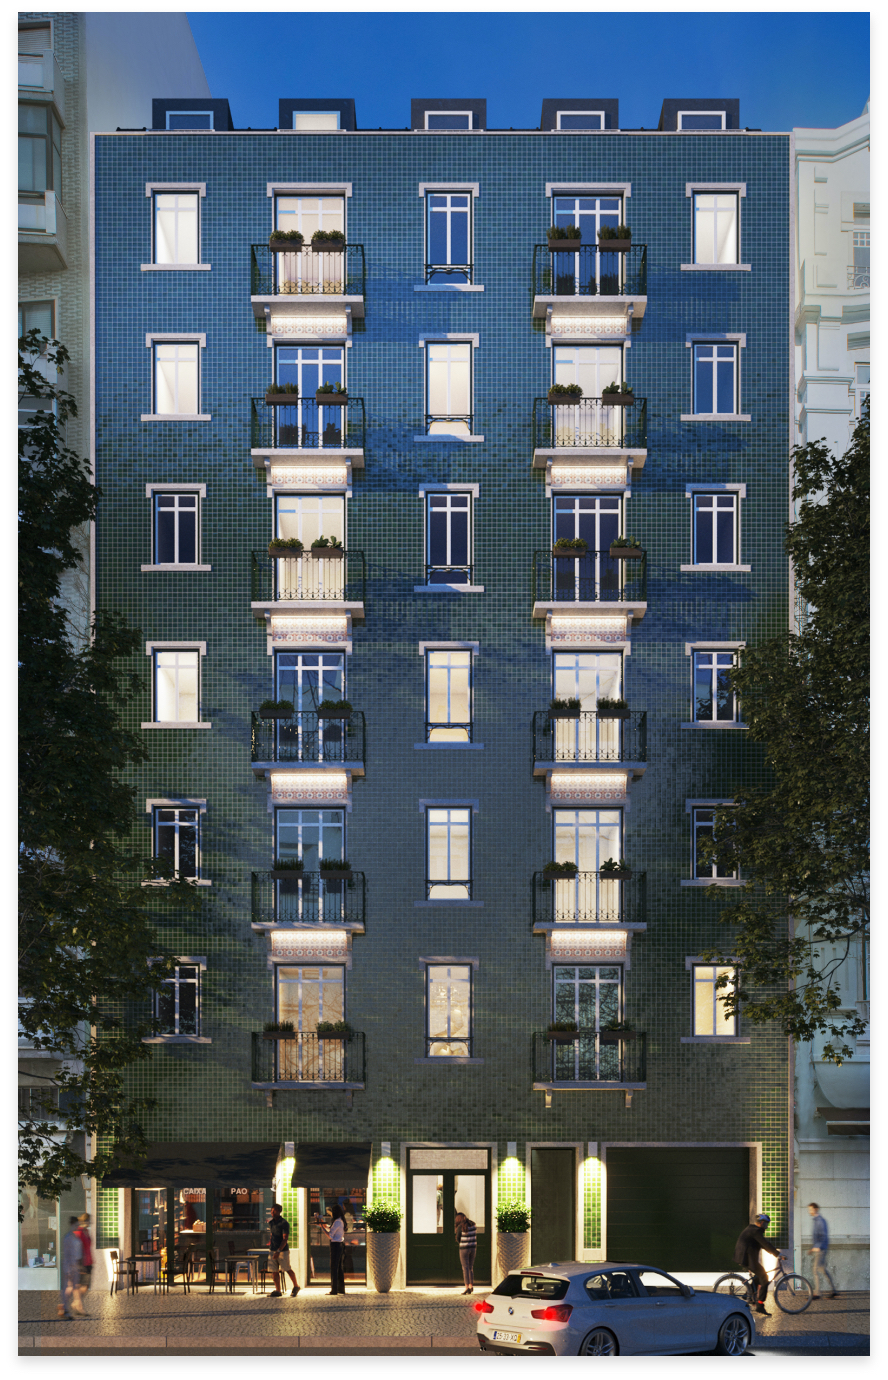
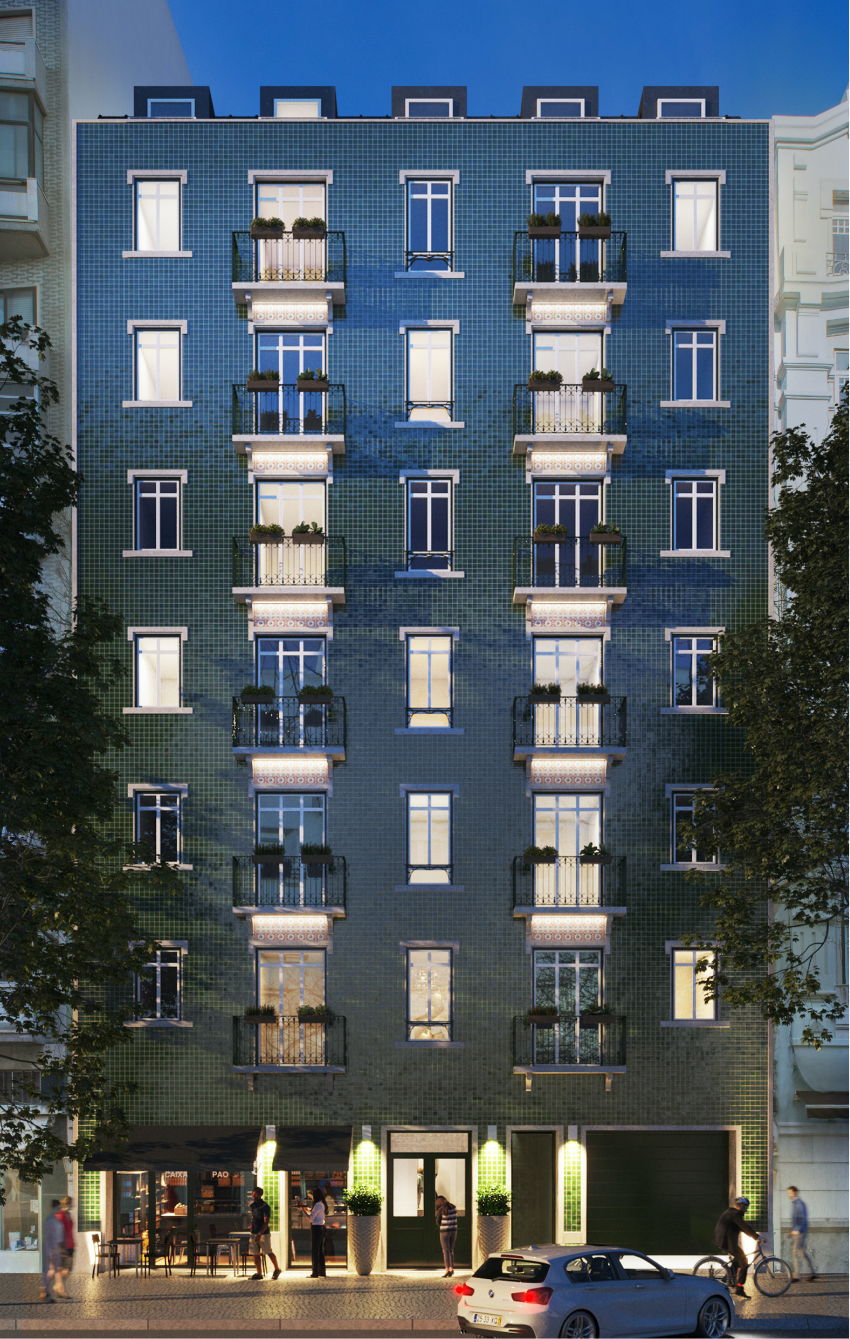
UPD: units background image;

diff --git a/src/views/Units.js b/src/views/Units.js
@@ -7,6 +7,7 @@ import cx from 'classnames'
 import { baseUrl } from '../api'
 import db from '../db'
 import StatusTag from '../components/StatusTag'
+import fachada from '../assets/images/fachada.jpg'
 
 const getHeight = index => {
   switch(index) {
@@ -75,7 +76,7 @@ const Units = () => {
           : <p className="text-2xl text-white uppercase font-display font-medium">Escolha o seu <span className="text-green font-light">apartamento</span></p>
         }
       </div>
-      <Building className="building px-6 grid my-6 mx-auto" ref={ref}>
+      <Building className="building px-6 grid py-6" ref={ref} style={{backgroundImage: `url(${fachada})`}}>
         {units.map((unit, index) => 
           <AptImage key={unit.id}  index={index} onClick={() => selectUnit(unit)}>
             <img src={unit.thumbnail.data.full_url} alt={unit.title} />
@@ -90,6 +91,10 @@ const Building = styled.div`
   grid-template-columns: 1.2fr repeat(4, 1fr);
   justify-items: center;
   max-width: 730px;
+  background-size: cover;
+  background-position: center;
+  background-repeat: no-repeat;
+  height: 670px;
   figure:nth-child(1) {
     grid-column: span 2;
     justify-self: right;
